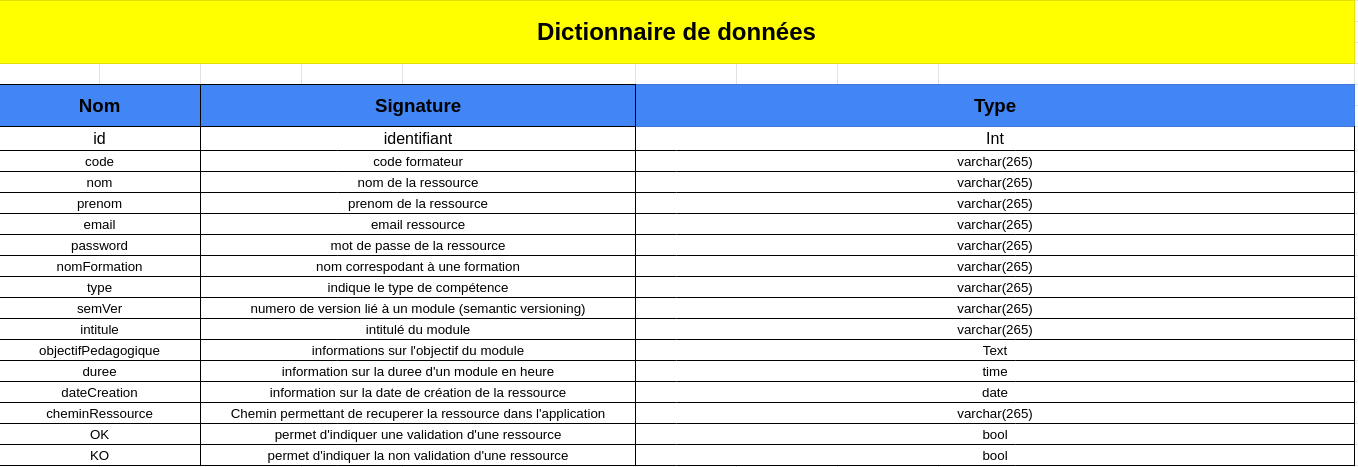
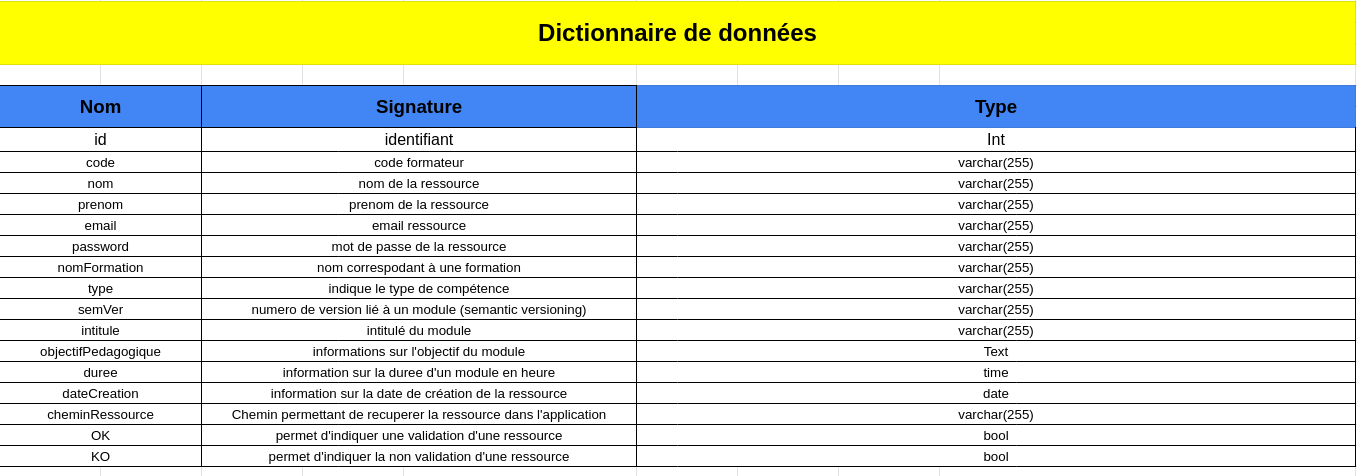
max varchar

Changed region(s): [[0.0, 0.0, 1.0, 1.0], [0.1238, 0.1499, 0.1548, 0.2099], [0.0619, 0.1499, 0.0929, 0.1799]]

diff --git a/README.md b/README.md
@@ -46,35 +46,35 @@
 
 >Module 
 >* id(primary_key, auto-incremente)
->* semVer(varchar 265)
->* intitule(varchar 265)
+>* semVer(varchar 255)
+>* intitule(varchar 255)
 >* objectifPedagogique(time)
 
 
 >Video
 >* id(primary_key, auto-incremente)
 >* dateCreation(date)
->* cheminRessource(varchar 265)
+>* cheminRessource(varchar 255)
 >* #id_module(foreign_key)
 
 >Image
 >* id(primary_key, auto-incremente)
 >* dateCreation(date)
->* cheminRessource(varchar 265)
+>* cheminRessource(varchar 255)
 >* #id_module(foreign_key)
 
 >Competence
 >* id(primary_key, auto-incremente)
->* type(varchar 265)
+>* type(varchar 255)
 >* #id_module(foreign_key)
 
 >Apprenant
 >* id(primary_key, auto-incremente)
->* nom(varchar 265)
->* prenom(varchar 265)
->* email(varchar 265)
->* password(varchar 265)
->* numInscription(varchar 265)
+>* nom(varchar 255)
+>* prenom(varchar 255)
+>* email(varchar 255)
+>* password(varchar 255)
+>* numInscription(varchar 255)
 
 
 >Evaluation
@@ -86,15 +86,15 @@
 
 >Formateur
 >* id(primary_key, auto-incremente)
->* nom(varchar 265)
->* prenom(varchar 265)
->* email(varchar 265)
->* password(varchar 265)
->* code(varchar 265)
+>* nom(varchar 255)
+>* prenom(varchar 255)
+>* email(varchar 255)
+>* password(varchar 255)
+>* code(varchar 255)
 
 >Formation
 >* id(primary_key, auto-incremente)
->* nomFormation(varchar 265)
+>* nomFormation(varchar 255)
 >* #id_formateur(foreign_key)
 
 >Constituer
@@ -119,8 +119,8 @@
 
 CREATE TABLE Module(
         id                  Int  Auto_increment  NOT NULL ,
-        semVer              Varchar (265) NOT NULL ,
-        intitule            Varchar (265) NOT NULL ,
+        semVer              Varchar (255) NOT NULL ,
+        intitule            Varchar (255) NOT NULL ,
         objectifPedagogique Text NOT NULL ,
         Duree               Time NOT NULL
 	,CONSTRAINT Module_PK PRIMARY KEY (id)
@@ -134,7 +134,7 @@ CREATE TABLE Module(
 CREATE TABLE Video(
         id              Int  Auto_increment  NOT NULL ,
         dateCreation    Date NOT NULL ,
-        cheminRessource Varchar (265) NOT NULL ,
+        cheminRessource Varchar (255) NOT NULL ,
         id_Module       Int NOT NULL
 	,CONSTRAINT Video_PK PRIMARY KEY (id)
 
@@ -149,8 +149,8 @@ CREATE TABLE Video(
 
 CREATE TABLE Image(
         id              Int  Auto_increment  NOT NULL ,
-        dateCreation    Varchar (265) NOT NULL ,
-        cheminressource Varchar (265) NOT NULL ,
+        dateCreation    Varchar (255) NOT NULL ,
+        cheminressource Varchar (255) NOT NULL ,
         id_Module       Int NOT NULL
 	,CONSTRAINT Image_PK PRIMARY KEY (id)
 
@@ -165,11 +165,11 @@ CREATE TABLE Image(
 
 CREATE TABLE Formateur(
         id       Int  Auto_increment  NOT NULL ,
-        code     Varchar (265) NOT NULL ,
-        nom      Varchar (265) NOT NULL ,
-        prenom   Varchar (265) NOT NULL ,
-        email    Varchar (265) NOT NULL ,
-        password Varchar (265) NOT NULL
+        code     Varchar (255) NOT NULL ,
+        nom      Varchar (255) NOT NULL ,
+        prenom   Varchar (255) NOT NULL ,
+        email    Varchar (255) NOT NULL ,
+        password Varchar (255) NOT NULL
 	,CONSTRAINT Formateur_PK PRIMARY KEY (id)
 )ENGINE=InnoDB;
 
@@ -180,7 +180,7 @@ CREATE TABLE Formateur(
 
 CREATE TABLE Formation(
         id           Int  Auto_increment  NOT NULL ,
-        nomFormation Varchar (265) NOT NULL ,
+        nomFormation Varchar (255) NOT NULL ,
         id_Formateur Int NOT NULL
 	,CONSTRAINT Formation_PK PRIMARY KEY (id)
 
@@ -194,11 +194,11 @@ CREATE TABLE Formation(
 
 CREATE TABLE Appreunants(
         id             Int  Auto_increment  NOT NULL ,
-        nom            Varchar (265) NOT NULL ,
-        prenom         Varchar (265) NOT NULL ,
-        email          Varchar (265) NOT NULL ,
-        password       Varchar (265) NOT NULL ,
-        numInscription Varchar (265) NOT NULL
+        nom            Varchar (255) NOT NULL ,
+        prenom         Varchar (255) NOT NULL ,
+        email          Varchar (255) NOT NULL ,
+        password       Varchar (255) NOT NULL ,
+        numInscription Varchar (255) NOT NULL
 	,CONSTRAINT Appreunants_PK PRIMARY KEY (id)
 )ENGINE=InnoDB;
 
@@ -209,7 +209,7 @@ CREATE TABLE Appreunants(
 
 CREATE TABLE Competences(
         Id        Int  Auto_increment  NOT NULL ,
-        type      Varchar (265) NOT NULL ,
+        type      Varchar (255) NOT NULL ,
         id_Module Int
 	,CONSTRAINT Competences_PK PRIMARY KEY (Id)
 
